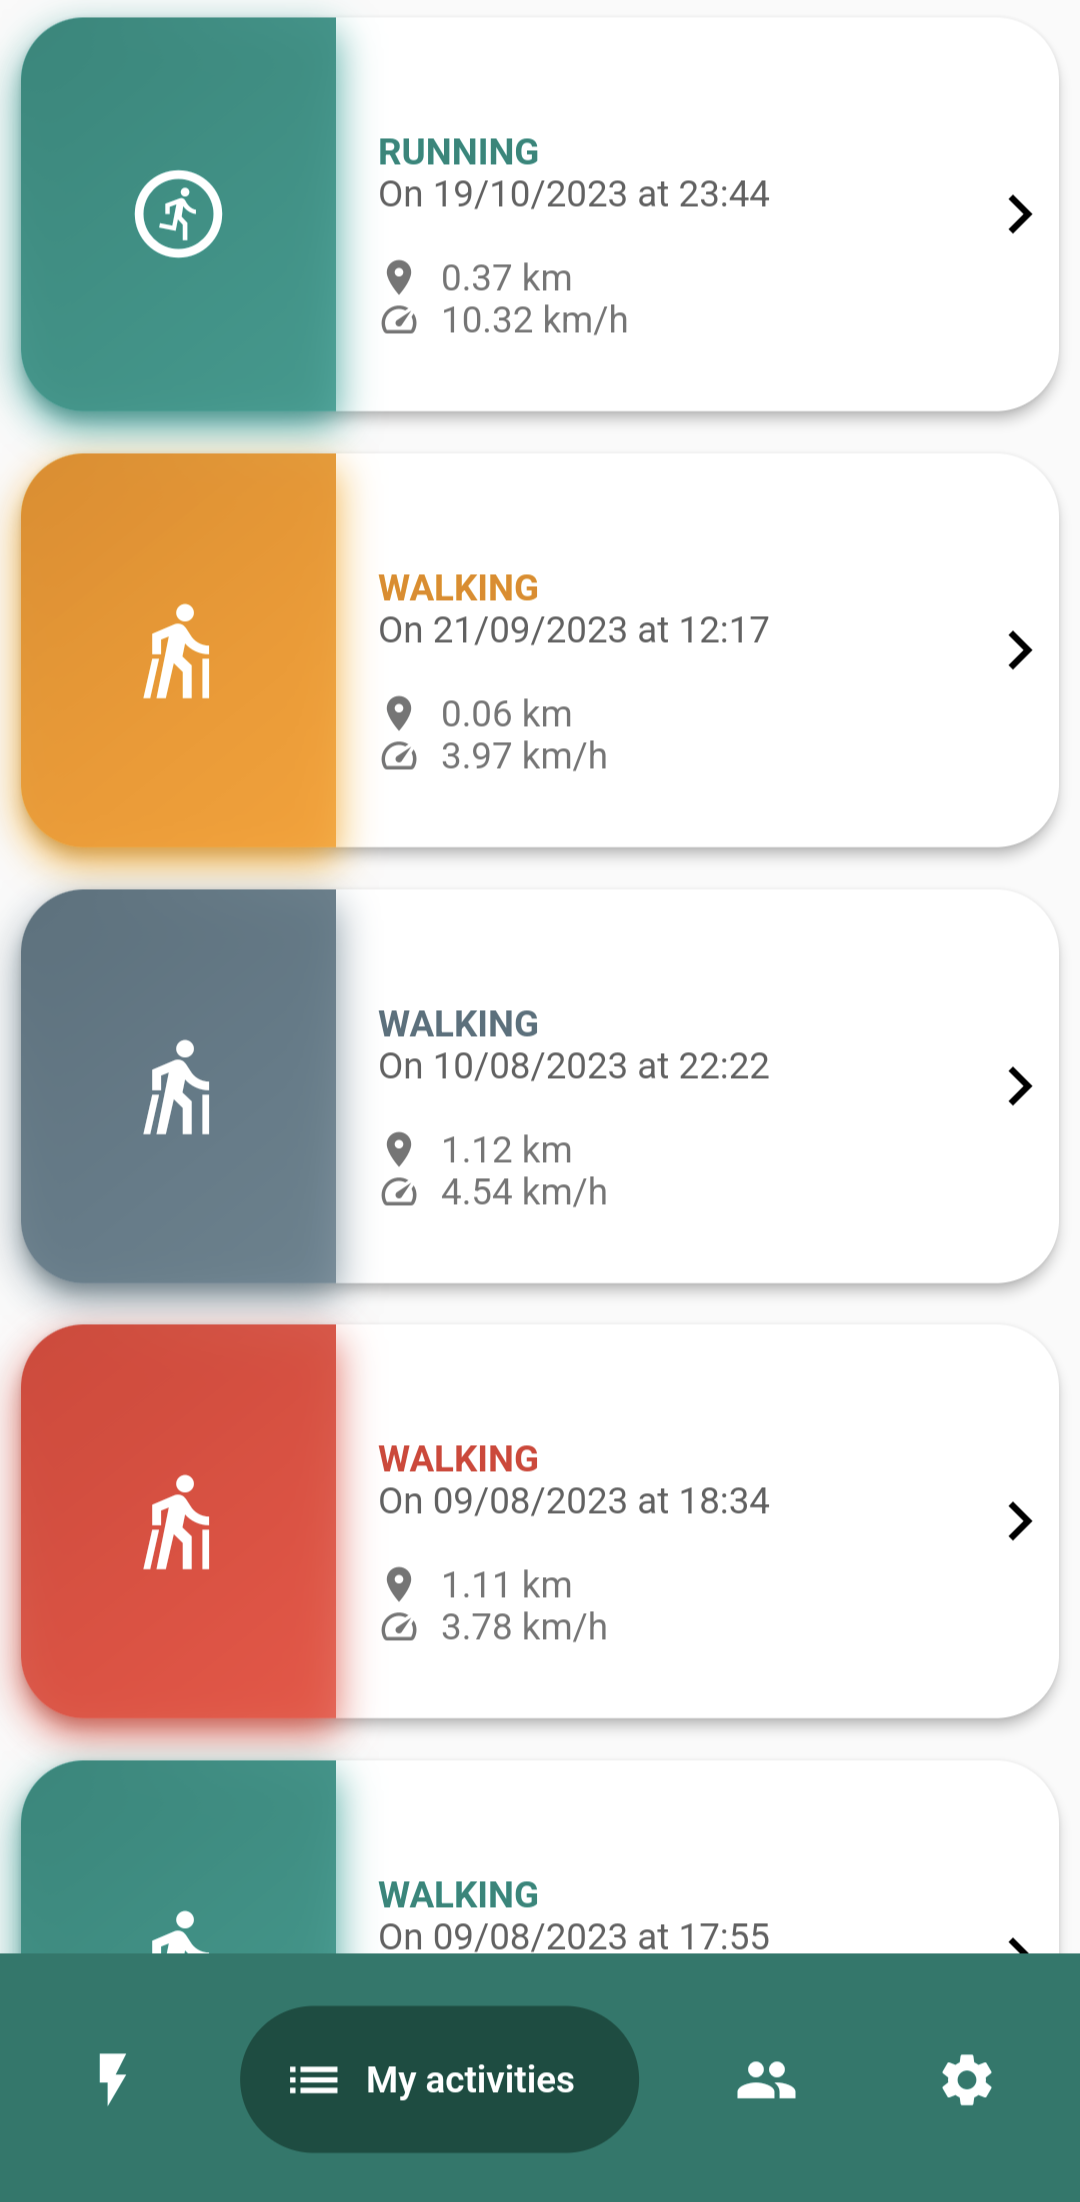
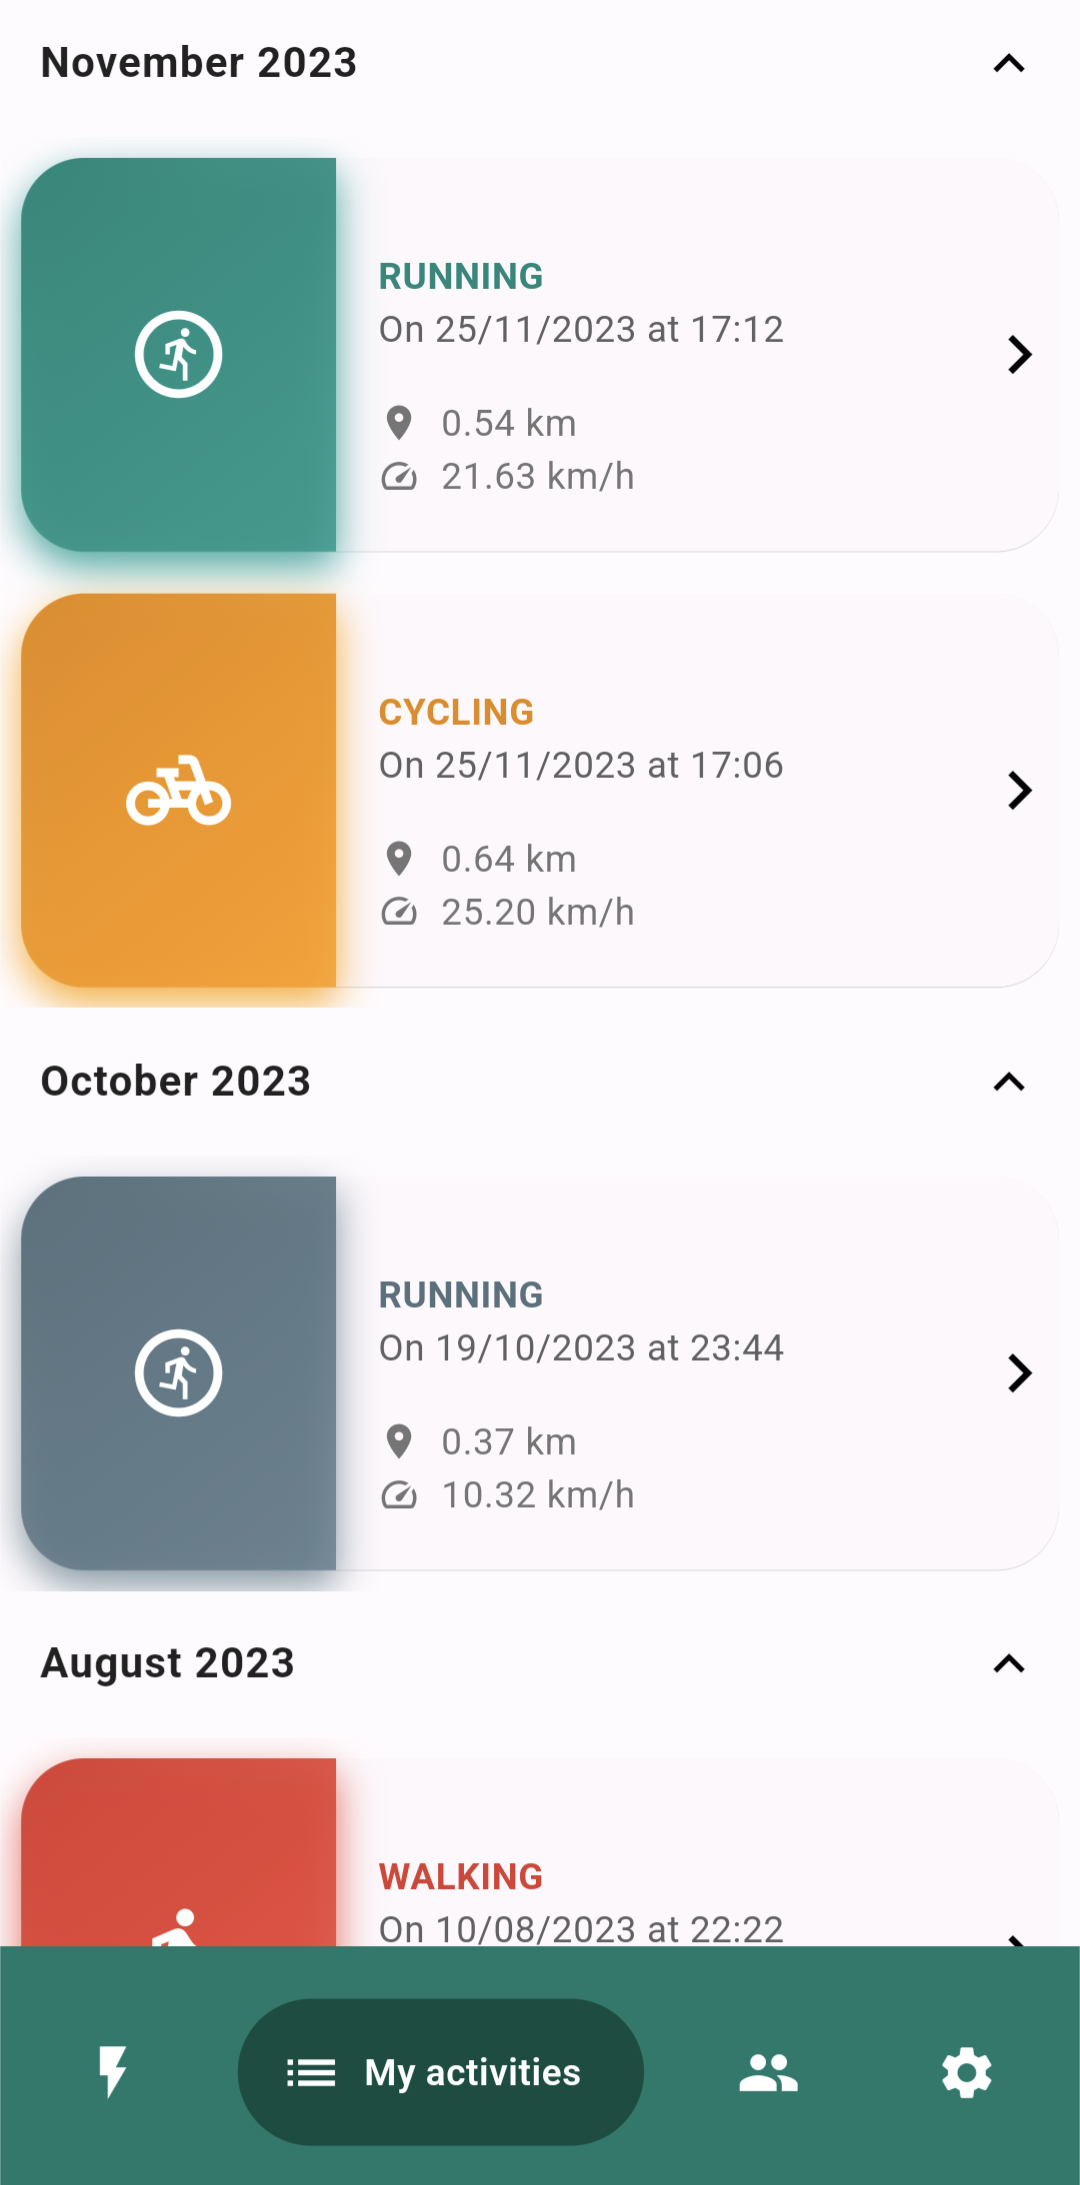
group activities by month in list (#28)
* group activities by month in list

* edit screenshots

* fix activity sort on empty list

diff --git a/lib/presentation/common/activity/widgets/activity_list.dart b/lib/presentation/common/activity/widgets/activity_list.dart
@@ -1,34 +1,30 @@
 import 'package:flutter/material.dart';
 import 'package:flutter_gen/gen_l10n/app_localizations.dart';
 import 'package:hooks_riverpod/hooks_riverpod.dart';
-
+import 'package:intl/intl.dart';
+import 'package:run_flutter_run/presentation/common/core/utils/type_utils.dart';
 import '../../../../domain/entities/activity.dart';
 import 'activity_item.dart';
 
-/// The screen that displays a list of activities.
+/// The screen that displays a list of activities grouped by months.
 class ActivityList extends HookConsumerWidget {
-  /// The activities to display.
   final List<Activity> activities;
-
-  /// display username ?
   final bool displayUserName;
-
-  /// can open activity ?
   final bool canOpenActivity;
 
-  /// Creates a [ActivityList] widget.
-  ///
-  /// The [activities] is the activities to display.
-  const ActivityList(
-      {super.key,
-      this.displayUserName = false,
-      this.canOpenActivity = true,
-      required this.activities});
+  const ActivityList({
+    Key? key,
+    this.displayUserName = false,
+    this.canOpenActivity = true,
+    required this.activities,
+  }) : super(key: key);
 
   @override
   Widget build(BuildContext context, WidgetRef ref) {
+    final groupedActivities = groupActivitiesByMonth(activities);
+
     return Expanded(
-      child: activities.isEmpty
+      child: groupedActivities.isEmpty
           ? Center(
               child: Row(
                 mainAxisAlignment: MainAxisAlignment.center,
@@ -41,22 +37,81 @@ class ActivityList extends HookConsumerWidget {
                   Text(
                     AppLocalizations.of(context)!.no_data,
                     style: const TextStyle(
-                        fontSize: 18, fontWeight: FontWeight.bold),
+                      fontSize: 18,
+                      fontWeight: FontWeight.bold,
+                    ),
                   ),
                 ],
               ),
             )
-          : ListView.builder(
-              itemCount: activities.length,
-              itemBuilder: (context, index) {
-                return ActivityItem(
-                  index: index,
-                  activity: activities[index],
-                  displayUserName: displayUserName,
-                  canOpenActivity: canOpenActivity,
-                );
-              },
+          : Theme(
+              data: ThemeData(
+                expansionTileTheme: const ExpansionTileThemeData(
+                  tilePadding: EdgeInsets.zero,
+                  iconColor: Colors.black,
+                  textColor: Colors.black87,
+                  childrenPadding: EdgeInsets.zero,
+                  shape: RoundedRectangleBorder(
+                    side: BorderSide.none,
+                    borderRadius: BorderRadius.zero,
+                  ),
+                ),
+              ),
+              child: ListView.builder(
+                itemCount: groupedActivities.length,
+                itemBuilder: (context, monthIndex) {
+                  final monthActivities = groupedActivities[monthIndex];
+
+                  return ExpansionTile(
+                    tilePadding: const EdgeInsets.fromLTRB(15, 0, 15, 0),
+                    title: Text(
+                      '${_getMonthName(monthActivities.first.startDatetime, AppLocalizations.of(context)!.localeName)} ${monthActivities.first.startDatetime.year}',
+                      style: const TextStyle(
+                        fontWeight: FontWeight.bold,
+                      ),
+                    ),
+                    initiallyExpanded: true,
+                    children: monthActivities.map((activity) {
+                      return ActivityItem(
+                        index: activities.indexOf(activity),
+                        activity: activity,
+                        displayUserName: displayUserName,
+                        canOpenActivity: canOpenActivity,
+                      );
+                    }).toList(),
+                  );
+                },
+              ),
             ),
     );
+  }
+
+  List<List<Activity>> groupActivitiesByMonth(List<Activity> activities) {
+    final groupedActivities = <List<Activity>>[];
+
+    if (activities.isNotEmpty) {
+      activities.sort((a, b) => b.startDatetime.compareTo(a.startDatetime));
+
+      for (var activity in activities) {
+        if (groupedActivities.isEmpty ||
+            groupedActivities.last.first.startDatetime.month !=
+                activity.startDatetime.month) {
+          groupedActivities.add([activity]);
+        } else {
+          groupedActivities.last.add(activity);
+        }
+      }
+    }
+    return groupedActivities;
+  }
+
+  String _getMonthName(DateTime dateTime, String locale) {
+    final monthNameFormat = DateFormat('MMMM', locale);
+
+    try {
+      return monthNameFormat.format(dateTime).capitalize();
+    } catch (e) {
+      return '';
+    }
   }
 }

diff --git a/lib/presentation/common/core/utils/type_utils.dart b/lib/presentation/common/core/utils/type_utils.dart
@@ -1,0 +1,5 @@
+extension StringExtension on String {
+  String capitalize() {
+    return "${this[0].toUpperCase()}${substring(1).toLowerCase()}";
+  }
+}
